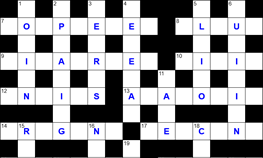
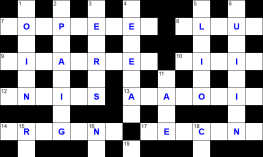
Added final entry & cleared the grid

diff --git a/grids/grid019.html b/grids/grid019.html
@@ -25,24 +25,23 @@ createExolve(`
   exolve-width: 15
   exolve-height: 15
   exolve-preamble:
-    The shaded entry is last week’s <a href="https://www.reddit.com/r/crosswords/comments/1h9lrv4/aotw_bnse/m12o5dk/" target="_blank">winner by zc_eric (week 30)</a><br><br>Definitions are <span class="xlv-definition">underlined</span> in the clue text.<br><br><b>NOTE:</b> <i>Available clue links go to OneLook for a list of possible entries.</i>
+    ‘Reveal this’, ‘Reveal all!’, and ‘Check this’ (for correct answers) will also show clue parsing notes. Definitions get <span class="xlv-definition">underlined</span> within the clues. 
   exolve-grid:
-    G!U!S!S!E!T!. D!I!S!P!A!T!C!H!
-    . N!. E!. O!. A!. T!. D!. E!. 
-    R!I!P!A!R!I!A!N!. A!B!O!U!N!D!
-    . S!. S!. L!. . . G!. R!. T!. 
-    . . . O!V!E!R!R!U!N!. E!V!I!L!
-    . S!. N!. T!. U!. A!. . . P!. 
-    J!E!D!I!. . . B!A!N!I!S!T!E!R!
-    . M!. N!. V!. B!. T!. T!. D!. 
-    K!I!N!G!L!I!K!E!. . . R!H!E!A!
-    . N!. . . T!. R!. ? . E!. S!. 
-    I!A!M!B!. A!U!S!T!R!I!A!. . . 
-    . T!. L!. M!. . . ? . K!. C!. 
-    K!I!G!A!L!I!. P!R!E!M!I!S!E!S!
-    . O!. M!. N!. O!. ? . N!. D!. 
-    I!N!T!E!R!E!S!T!. S!I!G!N!E!T!
-  exolve-colour: #ccfcff 16A
+    GUSSET.DISPATCH
+    .N.E.O.A.T.D.E.
+    RIPARIAN.ABOUND
+    .S.S.L...G.R.T.
+    ...OVERRUN.EVIL
+    .S.N.T.U.A...P.
+    JEDI...BANISTER
+    .M.N.V.B.T.T.D.
+    KINGLIKE...RHEA
+    .N...T.R.B.E.S.
+    IAMB.AUSTRIA...
+    .T.L.M...I.K.C.
+    KIGALI.PREMISES
+    .O.M.N.O.F.N.D.
+    INTEREST.SIGNET
   exolve-across:
     1 ~{Metal plate}~ for clumsy guests (6)<a href="https://www.reddit.com/r/crosswords/comments/1cvr1ol/aotw_ust/l4sprpx/" target="_blank">by foureyedclyde (wk 1)</a><br>GUESTS* {clumsy}
     5 ~{Mail-in}~ controversy divides wealthy as Republicans ousted by Democrats (8) <a href="https://www.reddit.com/r/crosswords/comments/1gd9okr/aotw_dsac/lu1ttte/" target="_blank">by rccyu (wk 24)</a><br>SPAT {controversy} env. {divides} RI·CH {wealthy} substituting <b>R</b><s>epublican</s> for <b>D</b><s>emocrat</s>
@@ -72,7 +71,7 @@ createExolve(`
     14 Perhaps East Germany is ~{spreading}~? (10) <a href="https://www.reddit.com/r/crosswords/comments/1ejtb12/aotw_eiain/lgg7ysh/" target="_blank">by Junior-Specialist-97 (wk 12)</a><br>SEMI-NATION {Perhaps East Germany, <i>example of a nation that was formerly split in two</i>}
     17 Rudely stare at emperor ~{parading in public with no clothes on}~ (9) <a href="https://www.reddit.com/r/crosswords/comments/1g2s5r9/aotw_sraig/lrr7xot/" target="_blank">by zc_eric (wk 22)</a><br>STARE* {Rudely} alongside {at} KING {emperor}
     18 Iodine in Vietnam bananas is ~{an essential nutrient}~ (7,1) <a href="https://www.reddit.com/r/crosswords/comments/1dhihwr/aotw_iaie/l8xqkre/" target="_blank">by professor_glum (wk 5)</a><br>I {Iodene} in VIETNAM* {bananas}
-    21 <strong><a href="https://www.onelook.com/?w=?R?E?S&ws1=1&scwo=1&ssbp=1" target="_blank" style="text-decoration: none">_R_E_S</a> (6)</strong># <a href="" target="_blank">by  (wk )</a><br>
+    21 At first, Bichon Frisé madly ~{pants}~ (6) <a href="https://www.reddit.com/r/crosswords/comments/1hf09it/aotw_res/m39n1ir/" target="_blank">by emptytriangles (wk 31)</a><br><b>B</b><s>ichon</s> {At first} + FRISÉ* {madly}
     23 ~{Fault}~ line running between Britain and America’s the origin of earthquakes (5) <a href="https://www.reddit.com/r/crosswords/comments/1fs84lg/aotw_bae/lpitcza/" target="_blank">by zc_eric (wk 20)</a><br>L {line} env. {running between} (B {Britain} + AM {America}) + <b>E</b><s>arthquake</s> {origin of}
     25 ~{Yield}~ of gathered seed (4) <a href="https://www.reddit.com/r/crosswords/comments/1gyr4xf/aotw_ee/lyqq85e/" target="_blank">by emptytriangles (wk 28)</a><br>Hom {gathered} of ‘seed’
     27 ~{Weed}~ out fringe members going after party leader (3) <a href="https://www.reddit.com/r/crosswords/comments/1fy22ve/aotw_pt/lqrra5x/" target="_blank">by lucas_glanville (wk 21)</a><br><b>O</b><s>u</s><b>T</b> {fringe members} after <b>P</b><s>arty</s> {leader}
